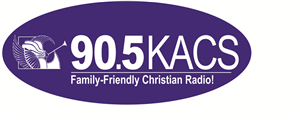
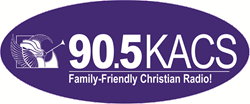
polish

diff --git a/public/styles/main.css b/public/styles/main.css
@@ -151,7 +151,7 @@ h3 {
 h4 {
     text-align: center;
     width: 100%;
-    font-size: 25px;
+    font-size: 20px;
     margin: 0;
     margin-top: 20px;
     font-family: "Ubuntu", sans-serif;
@@ -160,7 +160,7 @@ h4 {
 h5 {
     text-align: center;
     width: 100%;
-    font-size: 20px;
+    font-size: 18px;
     margin: 0;
     margin-top: 20px;
     font-family: "Ubuntu", sans-serif;
@@ -644,6 +644,10 @@ div.footer a {
     margin: 10px 0;
     padding: 10px;
     font-size: 20px;
+}
+
+.form h3, .form h4, .form h5, .form h6 {
+    text-align: left;
 }
 
 .bar {

diff --git a/world/the-front/resources/index.css b/world/the-front/resources/index.css
@@ -1,3 +1,9 @@
 section .card-grid {
     max-width: var(--max-main-width);
 }
+
+img.kacs {
+    width: 100%;
+    height: auto;
+    padding: 20px;
+}
